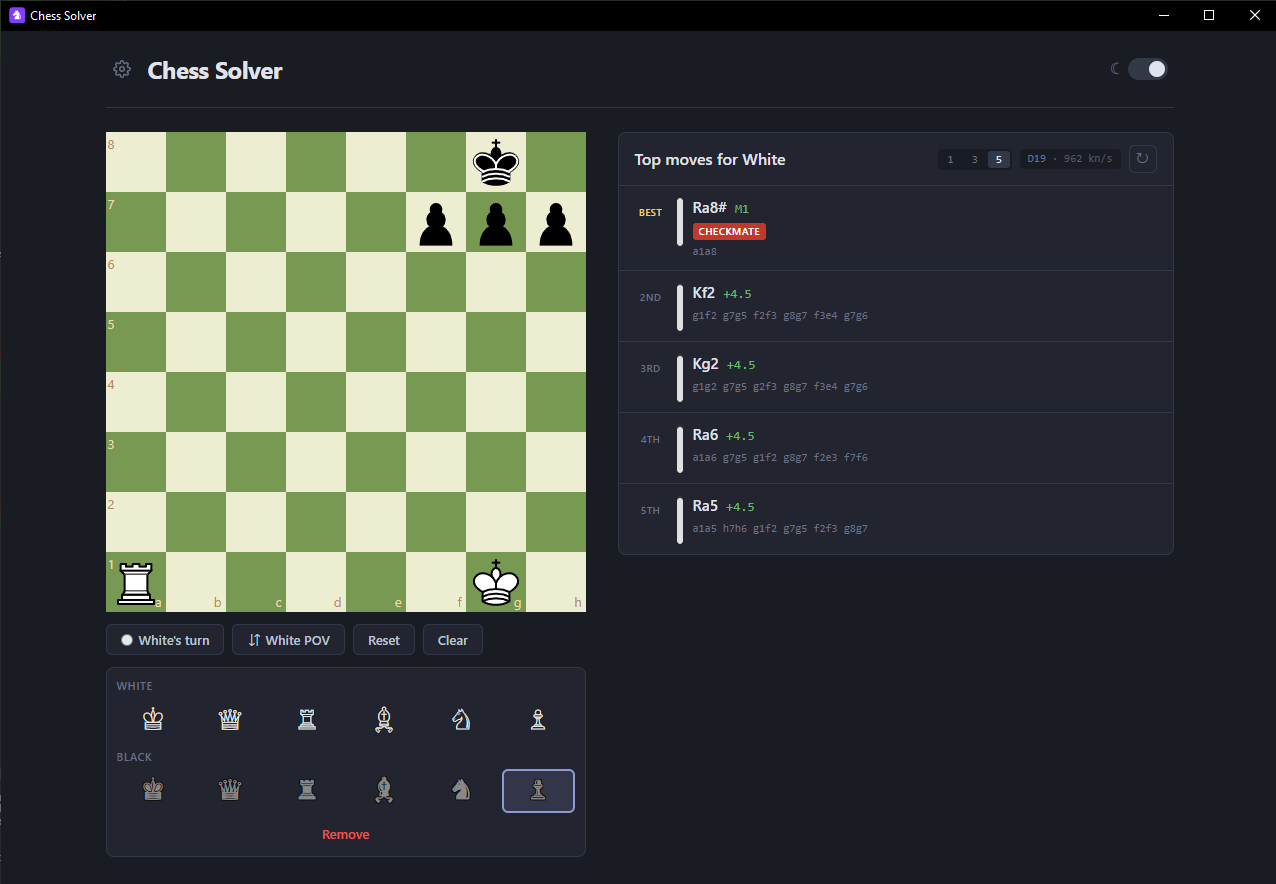
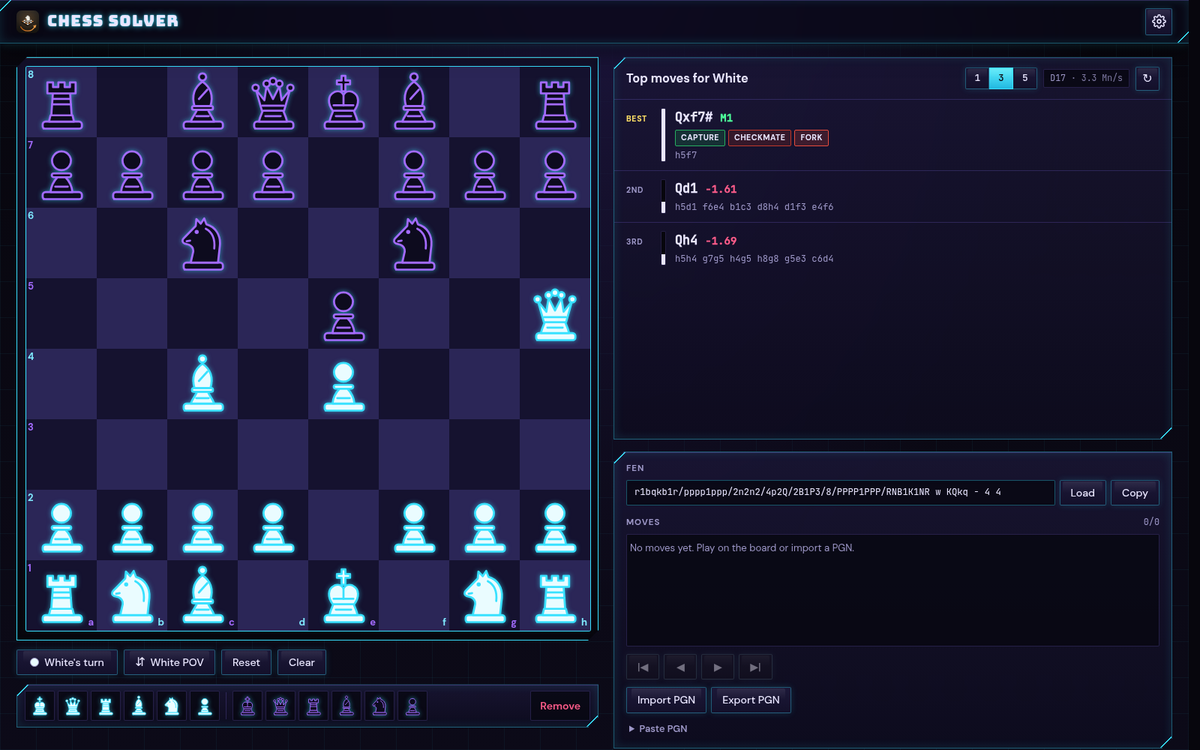
Update the README and screenshots for the new look
New screenshots in Matte light, Neon dark and the Settings dialog, plus a
grid of all eight theme variants. Documents the themes, the original
piece set, the stable layout, the title font and the new icons.

diff --git a/README.md b/README.md
@@ -24,21 +24,26 @@
 </p>
 
 <p align="center">
-  <img src="docs/screenshot-analysis.png" width="850" alt="Chess Solver analyzing the starting position with five candidate lines" />
+  <img src="docs/screenshot-analysis.png" width="850" alt="Chess Solver in the Matte theme, finding Scholar's mate with three candidate lines" />
 </p>
 
 <table align="center">
   <tr>
     <td width="50%">
-      <img src="docs/screenshot-tactics.png" alt="Tactical motif detection flagging a back-rank checkmate" />
-      <p align="center"><sub>Tactical motifs flagged on every line — here a back-rank mate in 1</sub></p>
+      <img src="docs/screenshot-tactics.png" alt="The Neon theme in dark mode, flagging capture, checkmate and fork on the best line" />
+      <p align="center"><sub>Tactical motifs flagged on every line, here in Neon dark</sub></p>
     </td>
     <td width="50%">
-      <img src="docs/screenshot-settings.png" alt="Settings menu with version and update check" />
-      <p align="center"><sub>Built-in update check against GitHub releases</sub></p>
+      <img src="docs/screenshot-settings.png" alt="Settings dialog with themes, light and dark mode, think time, updates and the version" />
+      <p align="center"><sub>Settings: theme, mode, think time, updates and About</sub></p>
     </td>
   </tr>
 </table>
+
+<p align="center">
+  <img src="docs/screenshot-themes.png" width="850" alt="All eight looks: Matte, Frutiger Aero, Neon and Neubrutalism, each in light and dark" />
+  <br /><sub>Four themes, each in light and dark: Matte, Frutiger Aero, Neon and Neubrutalism</sub>
+</p>
 
 ## Features
 
@@ -52,7 +57,9 @@
 - Tactical motif detection (forks, pins, skewers, checks, etc.)
 - Opening name recognition
 - Checkmate, stalemate, and draw detection
-- Light/dark theme toggle
+- Four themes (Matte, the default; Frutiger Aero; Neon; Neubrutalism), each with light and dark. **System** (the default mode) follows your computer's setting live
+- An original piece set and a themed board: squares, frame, coordinates, highlights and pieces restyle with each theme
+- A wide layout that fills the window: the board grows with it, panels keep fixed heights and scroll inside, and nothing shifts as you play
 - Board flip and turn switching
 - Update check against GitHub releases: automatic at startup (a banner appears when a new version is out) and on demand from Settings → Check for updates
 
@@ -129,30 +136,48 @@ installer upgrades in place.
 To pin to the taskbar, right-click the desktop shortcut -> **Pin to taskbar** (Windows
 blocks programmatic taskbar pinning).
 
-## App Icon
+## Look and feel
 
-The app icon is a chess-knight glyph on a purple `#863bff` rounded square. Windows embeds `build/icon.ico`; macOS converts `build/icon.png` (1024×1024) to `.icns` at package time. To regenerate both after editing the design, run:
+### Themes
 
-```powershell
-powershell -ExecutionPolicy Bypass -File build/make-icon.ps1      # icon.ico (256..16)
-powershell -ExecutionPolicy Bypass -File build/make-icon-png.ps1  # icon.png (1024)
-```
+Open **Settings** (the gear, top right) to pick a theme and a mode:
 
-Both scripts use GDI+ with no external dependencies. Rerun `npm run dist` afterwards to embed the result.
+| Theme | Feel |
+| --- | --- |
+| **Matte** (default) | Warm paper grain, a walnut board frame, small crafted corners with a hairline double edge |
+| **Frutiger Aero** | Glossy glass panels over a sky backdrop, glossy pieces, soft top corners |
+| **Neon** | Deep night surfaces, glowing cyan and violet edges, chamfered corners |
+| **Neubrutalism** | Flat colour, thick outlines, hard offset shadows, square corners |
+
+Each theme has light and dark. **Light**, **Dark** or **System**; System is the default and follows the OS as it changes. Your choice is saved. `?skin=neon` (or `matte`, `aero`, `brutal`) in the URL picks a theme for that visit.
+
+Every colour, radius, shadow and corner is a CSS variable in `src/theme/tokens.css`; components never hard-code colours. The board squares, coordinates, highlight, frame and piece colours are tokens too, so the board restyles with the theme. Tests (`src/theme/*.test.ts`) check that all eight variants define every token and keep body text, muted text, links, evaluations, warnings, opening names and dropdowns at WCAG AA contrast or better, and that board coordinates and pieces stand out from their squares.
+
+### Board and pieces
+
+The pieces are an original geometric set drawn for this app (`src/components/pieceArt.ts`), not a stock set. The same shapes are dressed per theme: ivory and ebony in Matte, glossy porcelain and navy in Aero, glowing outlines in Neon, and bold black outlines in Neubrutalism.
+
+### Layout
+
+The board sizes itself to the window. The analysis list and the move list have fixed heights and scroll inside, the controls stay in place, and the page always reserves room for its scrollbar, so switching 1/3/5 lines, a long game or a warning never moves anything.
+
+### Title, logo and icons
+
+The title is set in [Bungee](https://github.com/djrrb/Bungee) (SIL OFL), bundled in `src/assets/fonts` so it works offline and in the desktop app, and styled per theme. The logo, an isometric board with the app's knight and an orange solve arrow, is `src/assets/logo.svg`. It is also the favicon (`public/favicon.svg`), the app icons (`public/icon-192.png`, `public/icon-512.png`), the desktop icons (`build/icon.ico` for Windows, `build/icon.png` at 1024×1024 for macOS) and the social card (`public/og-image.png`). After editing the SVG, re-export the PNG and ICO sizes from it and rerun `npm run dist`.
 
 ## How to Use
 
 1. The board starts with the standard chess position. Stockfish begins analyzing automatically.
-2. Select a piece from the palette below the board, then click any square to place it.
+2. Select a piece from the row below the board, then click any square to place it.
 3. Use **Remove** to erase pieces from the board.
 4. Toggle **White/Black to move** to change the side to analyze.
 5. The analysis panel shows the top engine moves with evaluations, tactical motifs, and principal variations. Use the **1 / 3 / 5** selector to trade breadth for depth.
 6. Click any analysis line to play that move on the board.
 7. Hover over a line to highlight the move on the board.
 8. Use **Reset** to restore the starting position or **Clear** to empty the board.
-9. Paste a FEN into the field under the piece palette and press **Load**. **Copy** puts the current position on the clipboard. A FEN the board cannot represent shows an error and does not change the position.
+9. Paste a FEN into the **FEN** field in the Position and game panel and press **Load**. **Copy** puts the current position on the clipboard. A FEN the board cannot represent shows an error and does not change the position.
 10. **Import PGN** reads a `.pgn` file. **Paste PGN** does the same from text. The move list starts at the beginning of the game; use the arrows or click a move to step through it. **Export PGN** downloads the current game. Import keeps the main line.
-11. Open the **⚙ settings menu** (top left) to change the engine's think time, see the app version, or check for updates. A dot on the gear and a banner under the header mean a new release is available.
+11. Open **Settings** (the gear, top right) to pick a theme and light, dark or system mode, change the engine's think time, check for updates, or see the version under **About**. A dot on the gear and a banner under the header mean a new release is available.
 
 ## How it's built
 
@@ -160,7 +185,7 @@ Chess Solver is an Electron desktop app. The window loads the React UI from a sm
 
 The engine is the Stockfish 18 multi-threaded NNUE build from the `stockfish` npm package. It is not committed to the repo. In development, Vite serves `stockfish-18.js` and `stockfish-18.wasm` from `node_modules`. The production build copies them into `dist/` as `stockfish.js` and `stockfish.wasm`. The UI runs that script in a Web Worker (`src/engine/stockfish.ts`) and speaks UCI to it.
 
-The board is React, drawn with react-chessboard. Legal play goes through chess.js, which keeps castling rights, en passant, and the move counters. The piece editor is allowed to build positions a real game cannot reach, including ones chess.js refuses to load. Those edits go through the raw FEN helpers in `src/engine/fen.ts`.
+The board is React, drawn with react-chessboard using the app's own piece set and theme colours. Legal play goes through chess.js, which keeps castling rights, en passant, and the move counters. The piece editor is allowed to build positions a real game cannot reach, including ones chess.js refuses to load. Those edits go through the raw FEN helpers in `src/engine/fen.ts`.
 
 ### Lost stops, and restarting a stuck search
 
